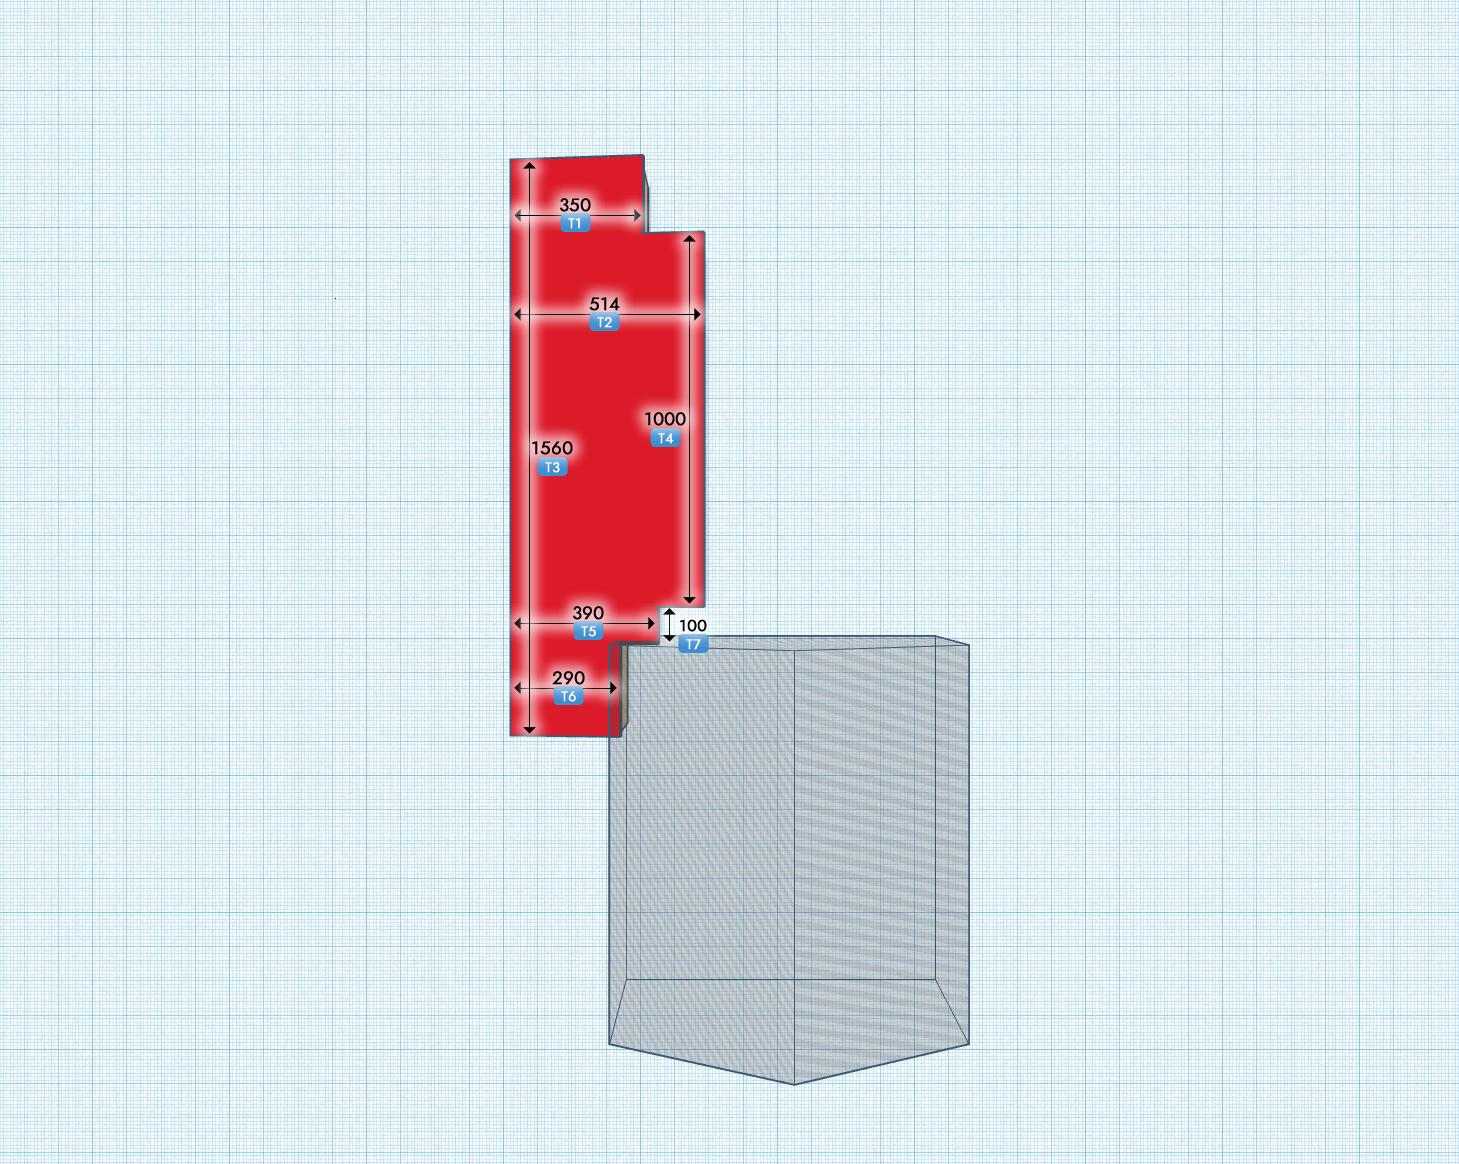
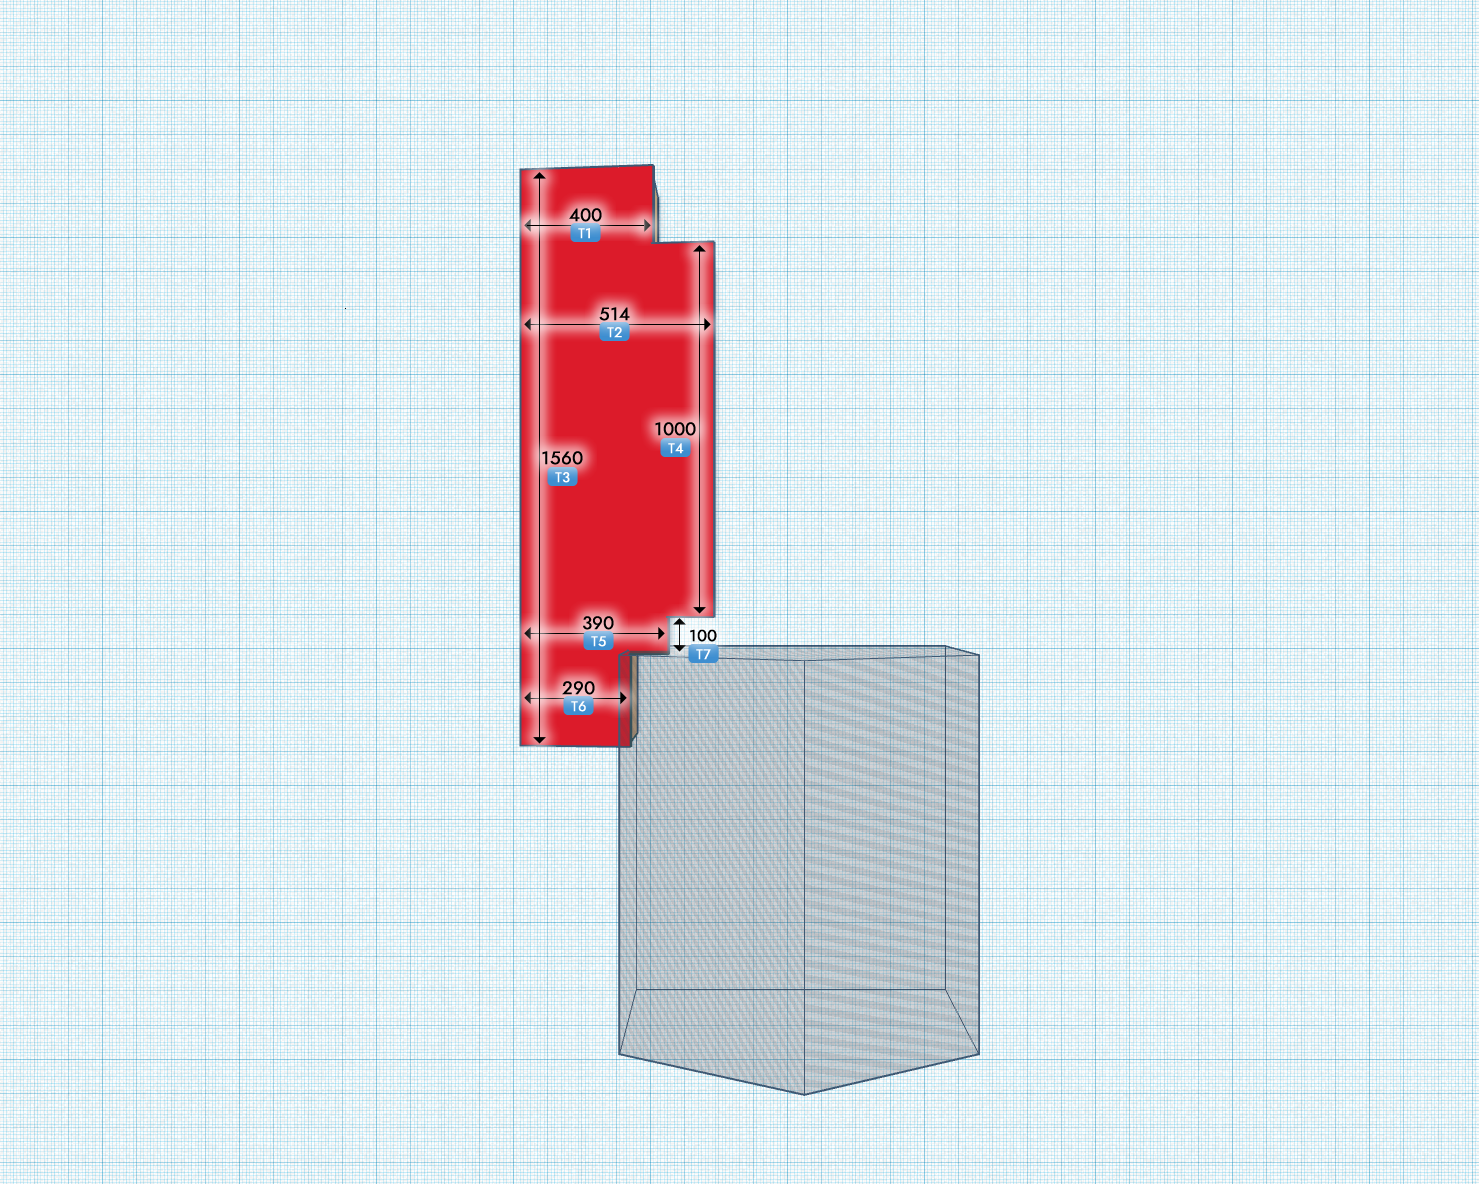
garage plans

diff --git a/pages/house/garage/plans.js b/pages/house/garage/plans.js
@@ -101,7 +101,7 @@ export default function GaragePlans({planImages}) {
                               <td>Shed Measurements <small>(view: bottom-up)</small></td>
                             </tr>
                             <tr>
-                              <td><span className="tag is-info mr-2">T1</span> 350cm</td>
+                              <td><span className="tag is-info mr-2">T1</span> 400cm</td>
                               <td>Shed 1 <small>(Stäuperle 13)</small>:</td>
                             </tr>
                             <tr>
